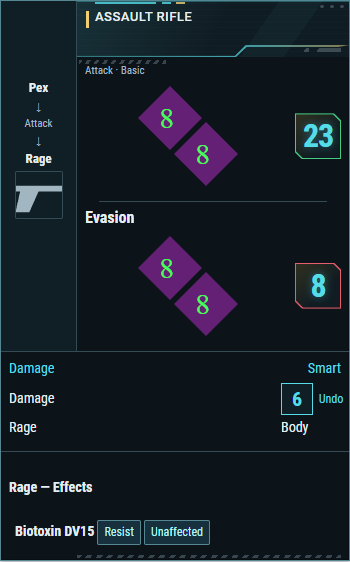
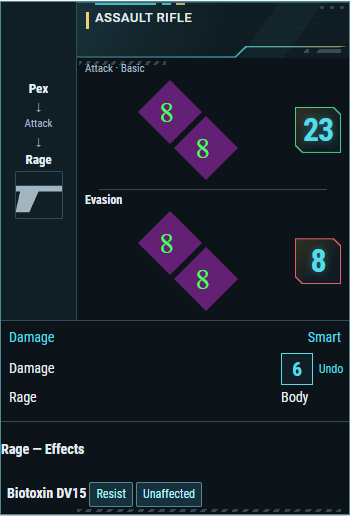
Checkpoint current skin before visual redesign

diff --git a/src/chat-cards.css b/src/chat-cards.css
@@ -340,10 +340,10 @@
 .chat-message.pneuma-chat-card .pneuma-mini-result-row > .pneuma-inline-roll { justify-self: end; }
 .chat-message.pneuma-chat-card .pneuma-mini-result-row > .pneuma-damage-undo { grid-column: 1 / -1; justify-self: end; }
 .chat-message.pneuma-chat-card :is(.pneuma-resolution-damage-apply, .pneuma-aoe-applications) {
-  border-top: 1px solid var(--pvt-line); margin-top: 8px; padding-top: 8px;
+  border-top: 1px solid var(--pvt-line); margin-top: 0; padding-top: 4px;
 }
 .chat-message.pneuma-chat-card .pneuma-damage-applications > .pneuma-damage-applied {
-  padding: 8px 0; margin: 0; border-bottom: 1px solid var(--pvt-line);
+  padding: 3px 0; margin: 0; border-bottom: 1px solid var(--pvt-line);
 }
 .chat-message.pneuma-chat-card .pneuma-damage-applications > .pneuma-damage-applied:last-child { border-bottom: 0; }
 .chat-message.pneuma-chat-card .pneuma-damage-applied-row.pneuma-mini-result-row {
@@ -395,3 +395,59 @@
 .pneuma-chat-composer #chat-controls select :is(option, optgroup) { background-color: var(--pvt-compose-bg); color: var(--pvt-compose-ink); text-shadow: none; }
 .pneuma-chat-composer #chat-controls select option:disabled { color: var(--pvt-compose-muted); }
 .pneuma-chat-composer #chat-controls select option:checked { background-color: var(--pvt-compose-line); color: var(--pvt-compose-ink); }
+/* Protect the shared structure from native/sidebar and portrait-module layout rules.
+ * These declarations apply only while Visual Tools owns the card. */
+:is(#chat-log, .chat-popout, body) .chat-message.pneuma-chat-card {
+ display: grid !important; grid-template-columns: var(--pvt-rail-width) minmax(0, 1fr) !important;
+ padding: 0 !important; border-radius: 0;
+}
+:is(#chat-log, .chat-popout, body) .chat-message.pneuma-chat-card > .message-header {
+ display: contents !important;
+}
+:is(#chat-log, .chat-popout, body) .chat-message.pneuma-chat-card .pneuma-chat-portrait img {
+ width: 100% !important; height: 100% !important; margin: 0 !important;
+ border: 0 !important; border-radius: 0 !important;
+}
+:is(#chat-log, .chat-popout, body) .chat-message.pneuma-chat-card img.chat-portrait-message-portrait-generic:not(.pneuma-chat-portrait img) {
+ display: none !important;
+}
+:is(#chat-log, .chat-popout, body) .chat-message.pneuma-chat-card .rollcard {
+ background: transparent !important; padding: 0 !important; margin: 0 !important; border-radius: 0;
+}
+/* Hub owns its paint; Minimal continues inheriting the host palette. */
+:is(#chat-log, .chat-popout, body) .chat-message.pneuma-chat-card.pneuma-theme-cyberpunk {
+ background: var(--pvt-bg) !important; color: var(--pvt-ink) !important;
+ border: 1px solid var(--pvt-frame) !important;
+}
+:is(#chat-log, .chat-popout, body) .chat-message.pneuma-chat-card.pneuma-theme-cyberpunk :is(.message-sender, .pneuma-exchange-attacker, .pneuma-exchange-defender) {
+ color: var(--pvt-ink) !important;
+}
+
+/* Compact area workflow; participant rail metrics remain unchanged. */
+.chat-message.pneuma-chat-card .pneuma-aoe-target { min-height: 34px; padding-block: 2px; gap: 4px; }
+.chat-message.pneuma-chat-card .pneuma-aoe-target > img { width: 24px; height: 24px; }
+.chat-message.pneuma-chat-card .pneuma-aoe-response { gap: 4px; }
+.chat-message.pneuma-chat-card .pneuma-aoe-target .pneuma-chat-button { min-height: 28px !important; height: auto !important; padding: 3px 5px !important; }
+.chat-message.pneuma-chat-card .pvt-target-controls { display: inline-block; }
+.chat-message.pneuma-chat-card .pvt-target-controls > summary { cursor: pointer; list-style: none; padding: 3px 6px; font-weight: 700; }
+.chat-message.pneuma-chat-card .pvt-target-controls > summary::-webkit-details-marker { display: none; }
+.chat-message.pneuma-chat-card .pvt-target-controls[open] { display: inline-flex; align-items: center; gap: 4px; flex-wrap: wrap; }
+.chat-message.pneuma-chat-card .pvt-target-controls > summary:focus-visible { outline: 2px solid var(--pvt-accent); }
+.chat-message.pneuma-chat-card .pneuma-aoe-actions { display: flex; align-items: center; flex-wrap: wrap; gap: 4px; padding-block: 4px; }
+.chat-message.pneuma-chat-card .pneuma-aoe-card > p { margin: 0; padding-block: 4px; font-size: 12px; line-height: 1.3; }
+.chat-message.pneuma-chat-card .pneuma-aoe-card .pneuma-resolution-result { padding-block: 4px; }
+
+/* Attack/defense roll spacing and secondary Evasion heading. */
+.chat-message.pneuma-chat-card :is(.pneuma-resolution-attack, .pneuma-attack-result, .pneuma-resolution-evade).pvt-opening-row { padding-block: 2px 4px; }
+.chat-message.pneuma-chat-card :is(.pneuma-resolution-attack, .pneuma-attack-result, .pneuma-resolution-evade) .cpr-block { padding-block: 2px; }
+.chat-message.pneuma-chat-card .pneuma-resolution-evade .rollcard-top .text-normal:not(.pneuma-exchange-weapon),
+.chat-message.pneuma-chat-card .rollcard-top .text-normal.pneuma-evasion-heading { font-size: 12px; line-height: 1.2; }
+
+/* Combat Tools owns the combined lower AoE recipient row. */
+.chat-message.pneuma-chat-card .pneuma-aoe-resolution-target .pneuma-damage-applied-row.pneuma-mini-result-row { display:flex; width:auto; gap:3px; margin:0; }
+.chat-message.pneuma-chat-card .pneuma-aoe-resolution-target .pneuma-damage-applied { padding:0; border:0; }
+.chat-message.pneuma-chat-card .pneuma-aoe-resolution-target .pneuma-chat-button { min-height:26px !important; height:26px !important; padding:2px 4px !important; margin:0; }
+.chat-message.pneuma-chat-card .pneuma-aoe-resolution-target .pneuma-inline-roll { margin:0; }
+.chat-message.pneuma-chat-card .pneuma-aoe-resolution-target .pneuma-inline-roll > summary { min-height:26px; font-size:17px; }
+.chat-message.pneuma-chat-card .pneuma-aoe-inline-effect > strong:first-of-type { font-size:12px; line-height:1.25; }
+.chat-message.pneuma-chat-card .pneuma-attached-target > .pneuma-attached-effects { margin:0; padding:0; border-top:0; }

diff --git a/src/chat-presentation.ts b/src/chat-presentation.ts
@@ -334,12 +334,12 @@ let listening = false;
 let damageDiceObserver: ResizeObserver | undefined;
 const observedCards = new WeakSet<HTMLElement>();
 /** Balance rows rather than letting flex-wrap leave a single die on its own.
- * Five 40–48px dice per row at most; smaller areas use fewer columns. */
+ * Use available width; smaller areas retain balanced rows. */
 function balanceDamageDice(group: HTMLElement): void {
   const dice = Array.from(group.children).filter((node): node is HTMLImageElement => node instanceof HTMLImageElement);
   const width = group.clientWidth;
   if (!dice.length || !width) return;
-  const capacity = Math.max(1, Math.min(5, Math.floor((width + 4) / 44)));
+  const capacity = Math.max(1, Math.floor((width + 2) / 46));
   const rows = Math.ceil(dice.length / capacity);
   const perRow = Math.floor(dice.length / rows), extra = dice.length % rows;
   const columns = perRow + (extra ? 1 : 0);
@@ -397,6 +397,12 @@ function arrangeMiniResults(root: HTMLElement): void {
     while (receipt.nextElementSibling?.matches('.pneuma-cover-up-damage, .pneuma-injury-damage')) {
       receipt.append(receipt.nextElementSibling);
     }
+    const undo=receipt.querySelector<HTMLElement>('[data-action="reverseDamage"]');
+    if(undo){
+      undo.title ||= 'Reverse damage';undo.classList.add('pneuma-damage-undo');
+      const row=receipt.querySelector('.pneuma-damage-applied-row');
+      if(row&&undo.parentElement!==row)row.append(undo);
+    }
   }
   const row = (label: HTMLElement, result: HTMLElement, color?: string) => {
     const wrapper = document.createElement('div'); wrapper.className = 'pneuma-mini-result-row';
@@ -405,10 +411,10 @@ function arrangeMiniResults(root: HTMLElement): void {
     return wrapper;
   };
   for (const effect of Array.from(root.querySelectorAll<HTMLElement>('.pneuma-instant-effect'))) {
-    if (effect.dataset.pvtMini) continue;
+    if (effect.dataset.pvtMini || effect.classList.contains('pneuma-aoe-inline-effect')) continue;
     effect.dataset.pvtMini = 'true';
     const heading = effect.querySelector<HTMLElement>(':scope > strong');
-    const rolls = Array.from(effect.querySelectorAll<HTMLElement>(':scope > .pneuma-inline-roll, :scope > strong + strong'));
+    const rolls = Array.from(effect.querySelectorAll<HTMLElement>(':scope > .pneuma-inline-roll, :scope > strong + strong, :scope > .pneuma-instant-damage > .pneuma-inline-roll'));
     for (const roll of rolls) {
       const summary = roll.querySelector('summary');
       const isDamage = summary?.getAttribute('aria-label')?.startsWith('Damage roll');
@@ -440,17 +446,27 @@ function arrangeMiniResults(root: HTMLElement): void {
     response.after(wrapper);
   }
   for (const applied of Array.from(root.querySelectorAll<HTMLElement>('.pneuma-damage-applied-row'))) {
-    if (applied.dataset.pvtMini) continue;
+    if (applied.dataset.pvtMini || applied.closest('.pneuma-aoe-resolution-target')) continue;
     applied.dataset.pvtMini = 'true';
     const total = applied.querySelector<HTMLElement>('.pneuma-applied-number');
     if (!total) continue;
-    const label = document.createElement('span'); label.textContent = 'Damage';
-    for (const part of Array.from(applied.querySelectorAll('.pneuma-applied-name, .pneuma-applied-location'))) label.append(' · ', part);
+    const label = document.createElement('span');
+    const parts='.pneuma-applied-name, .pneuma-applied-location';
+    for (const part of Array.from(applied.querySelectorAll(parts))) {
+      if (label.childNodes.length) label.append(' · ');
+      label.append(part);
+    }
+    if (!label.childNodes.length) label.textContent = 'Damage';
     applied.prepend(label); applied.classList.add('pneuma-mini-result-row');
   }
 }
 
 export function installRollPopovers(root: HTMLElement): void {
+  // Saved cards may have the former target-controls disclosure. Keep live
+  // controls and their handlers while restoring direct GM actions.
+  for (const menu of Array.from(root.querySelectorAll('.pvt-target-controls'))) {
+    menu.replaceWith(...Array.from(menu.querySelectorAll('button')));
+  }
   arrangeCardSections(root);
   arrangeMiniResults(root);
   // MIGRATION: Combat Tools appends effects/application results after render.
@@ -492,6 +508,8 @@ export function installRollPopovers(root: HTMLElement): void {
     } catch { /* Malformed or unsupported saved rolls remain native. */ }
   }
   for (const trigger of Array.from(root.querySelectorAll<HTMLElement>('.d10-number-div, .d6-number-div, .generic-number-div, .dice-total, .pneuma-applied-number, .pneuma-inline-roll > summary, [data-pvt-inline-source]'))) {
+    // Resolution receipts and effect rolls expand beneath their own rows.
+    if (trigger.matches('.pneuma-applied-number') || trigger.closest('.pneuma-aoe-inline-effect')) continue;
     const inline = trigger.closest('.pneuma-inline-roll');
     // The summary owns the entire compact roll; ignore its concealed totals.
     if (inline && trigger.tagName !== 'SUMMARY') continue;

diff --git a/src/chat-theme.css b/src/chat-theme.css
@@ -1,5 +1,6 @@
 /* CYBERPUNK MINIMAL: native palette, shared Hub geometry. Read the active CPR skin variables without replacing them. */
 .pneuma-theme-technical {
+  --pneuma-effect-icon-filter: brightness(0);
   /* Surfaces and semantic colors */
   --pvt-bg: var(--cpr-background-chat-card, var(--color-bg-option, #eaeaea));
   --pvt-panel: var(--cpr-background-chat-card-block-before, var(--cpr-background-box, var(--pvt-bg)));

diff --git a/src/chat-hub.css b/src/chat-hub.css
@@ -1,5 +1,7 @@
 /* PNEUMA HUB: palette and decoration. Geometry belongs to chat-cards.css. */
 .pneuma-theme-cyberpunk {
+  --pneuma-effect-icon-filter: brightness(0) invert(75%) sepia(80%) saturate(350%) hue-rotate(140deg);
+  --pneuma-effect-symbol-color: var(--pvt-accent);
   /* Surfaces and semantic colors */
   --pvt-bg: #0c141a;
   --pvt-panel: #101e26;

diff --git a/IMPLEMENTED_FEATURES.md b/IMPLEMENTED_FEATURES.md
@@ -89,3 +89,23 @@ The client toggle, status removal, hidden tabs, and canvas teardown stop playbac
 The procedural source is retained only for offline regeneration through scripts/render-fire-loop.mjs (FFmpeg path argument), and is not used by the runtime effect.
 
 Headless Edge at 3840×2160 measured main-thread task time over ten seconds: procedural 0.319 s, video 0.018 s. These measurements exclude media-decoder and GPU work and do not establish total client CPU savings. The video is approximately 4 MB.
+
+## Compact area chat cards
+
+Tighter target rows, area toolbar, rules notes and damage receipts. Reset/exclude controls expand through a keyboard-accessible Target controls disclosure; pending responses and recovery controls remain visible. Receipt labels omit the repeated Damage prefix. Application boundaries, totals, undo and recipient notes remain. Damage dice use available width without a five-die cap. Participant rail dimensions remain unchanged.
+
+Attack and defense opening sections use tighter vertical padding; the Evasion heading uses 12px text. Participant rail and dice dimensions remain unchanged.
+
+Combat Tools owns lower damage/application/effects sections. The adapter supports effect-generated damage rows inside `.pneuma-instant-damage`, preserving roll breakdowns and native controls.
+
+Combined AoE recipient rows retain inline effect results/actions and compact damage receipts without repeating the recipient name. Shared styles keep portrait/name/damage on the first line and individual named, color-bordered effect rows underneath; native roll/undo details remain available.
+
+Combat Tools compact effect rows retain effect glyphs in labeled Apply buttons and plain completion icons. Resistance/application and the far-right GM menu have reserved positions; Visual Tools preserves this structure and the existing participant rail. Effect-selection locks and extinguishing placement remain Combat Tools behavior.
+
+Target effect rows (2026-10-04, unreleased): Combat Tools owns the stacked damage/effect structure and separate GM overrides. Both skins preserve visible effect names, colored left borders, labeled Resist/Apply buttons and completion icons. Attached effects share one recipient heading; the participant rail is unchanged. Browser geometry and source checks do not establish live Foundry verification.
+Direct GM actions and icon contrast (2026-10-04, unreleased): target controls no longer gain a submenu; saved disclosure wrappers are flattened while preserving handlers. Minimal uses dark effect images, Hub uses a cyan tint. Glyph, selection and completion images remain the original status assets. Supersedes the earlier disclosure behavior; live Foundry verification pending.
+RTD resistance expansion (2026-10-04, unreleased): compact effect resistance retains native click-to-expand behavior and full-width saved calculation text beneath its effect row. These totals are excluded from hover-popover conversion. Dice artwork and framed roll panels stay hidden only within that text breakdown. Both skins and native sidebar checks pass; live Foundry verification pending.
+
+Applied-damage disclosure cleanup (unreleased, 2026-10-04): `.pneuma-applied-number` and compact effect roll summaries retain native click expansion rather than hover conversion. Combat Tools supplies full-width AoE receipt breakdowns beneath the target line and effect damage beneath the named effect. The adapter keeps native Undo beside its applied total, moves existing receipt notes with their recipient, and preserves all live descendants and disclosure attributes. Undo positioning is idempotent for the child-list observer. Participant rails retain their existing dimensions. Live Foundry verification pending.
+- Right-aligned resolution actions (2026-10-04, unreleased): Combat Tools now collapses empty GM slots and sizes action groups to their contents; visible GM controls are right-most, and completed effect icons/applied totals reach the right edge. Both skins retain the Combat Tools layout and full-width expansion contract. Automated browser verification; live Foundry verification pending.
+- Effect selection icon correction (2026-10-04, unreleased): Combat Tools selection images are transparent glyphs, with tinting applied independently of the normal themed button surface. Minimal uses dark glyphs; Hub retains cyan tint. Nested image wells no longer render as solid rectangles. Automated browser checks; live Foundry verification pending.
